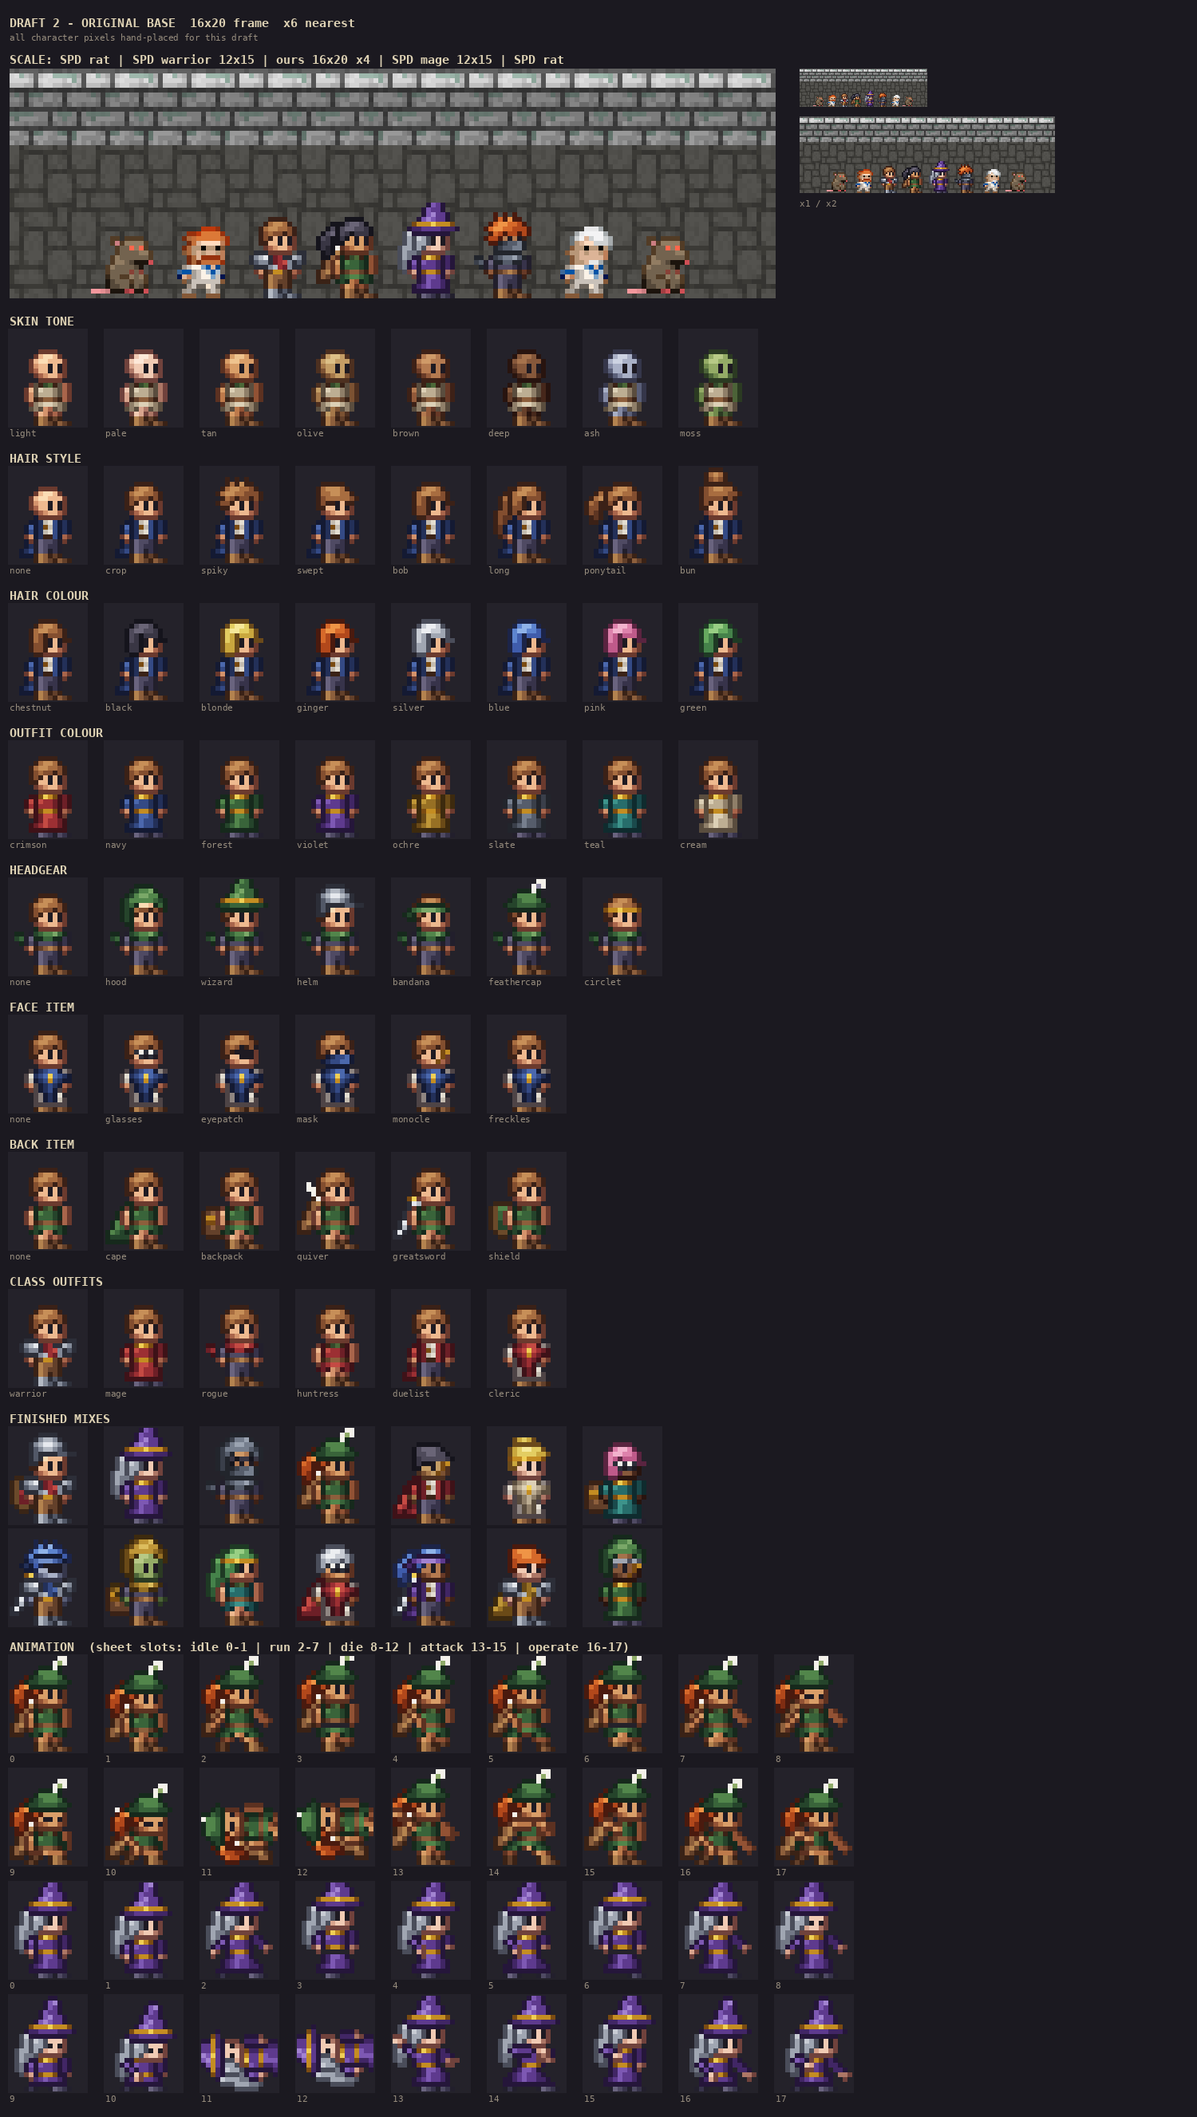
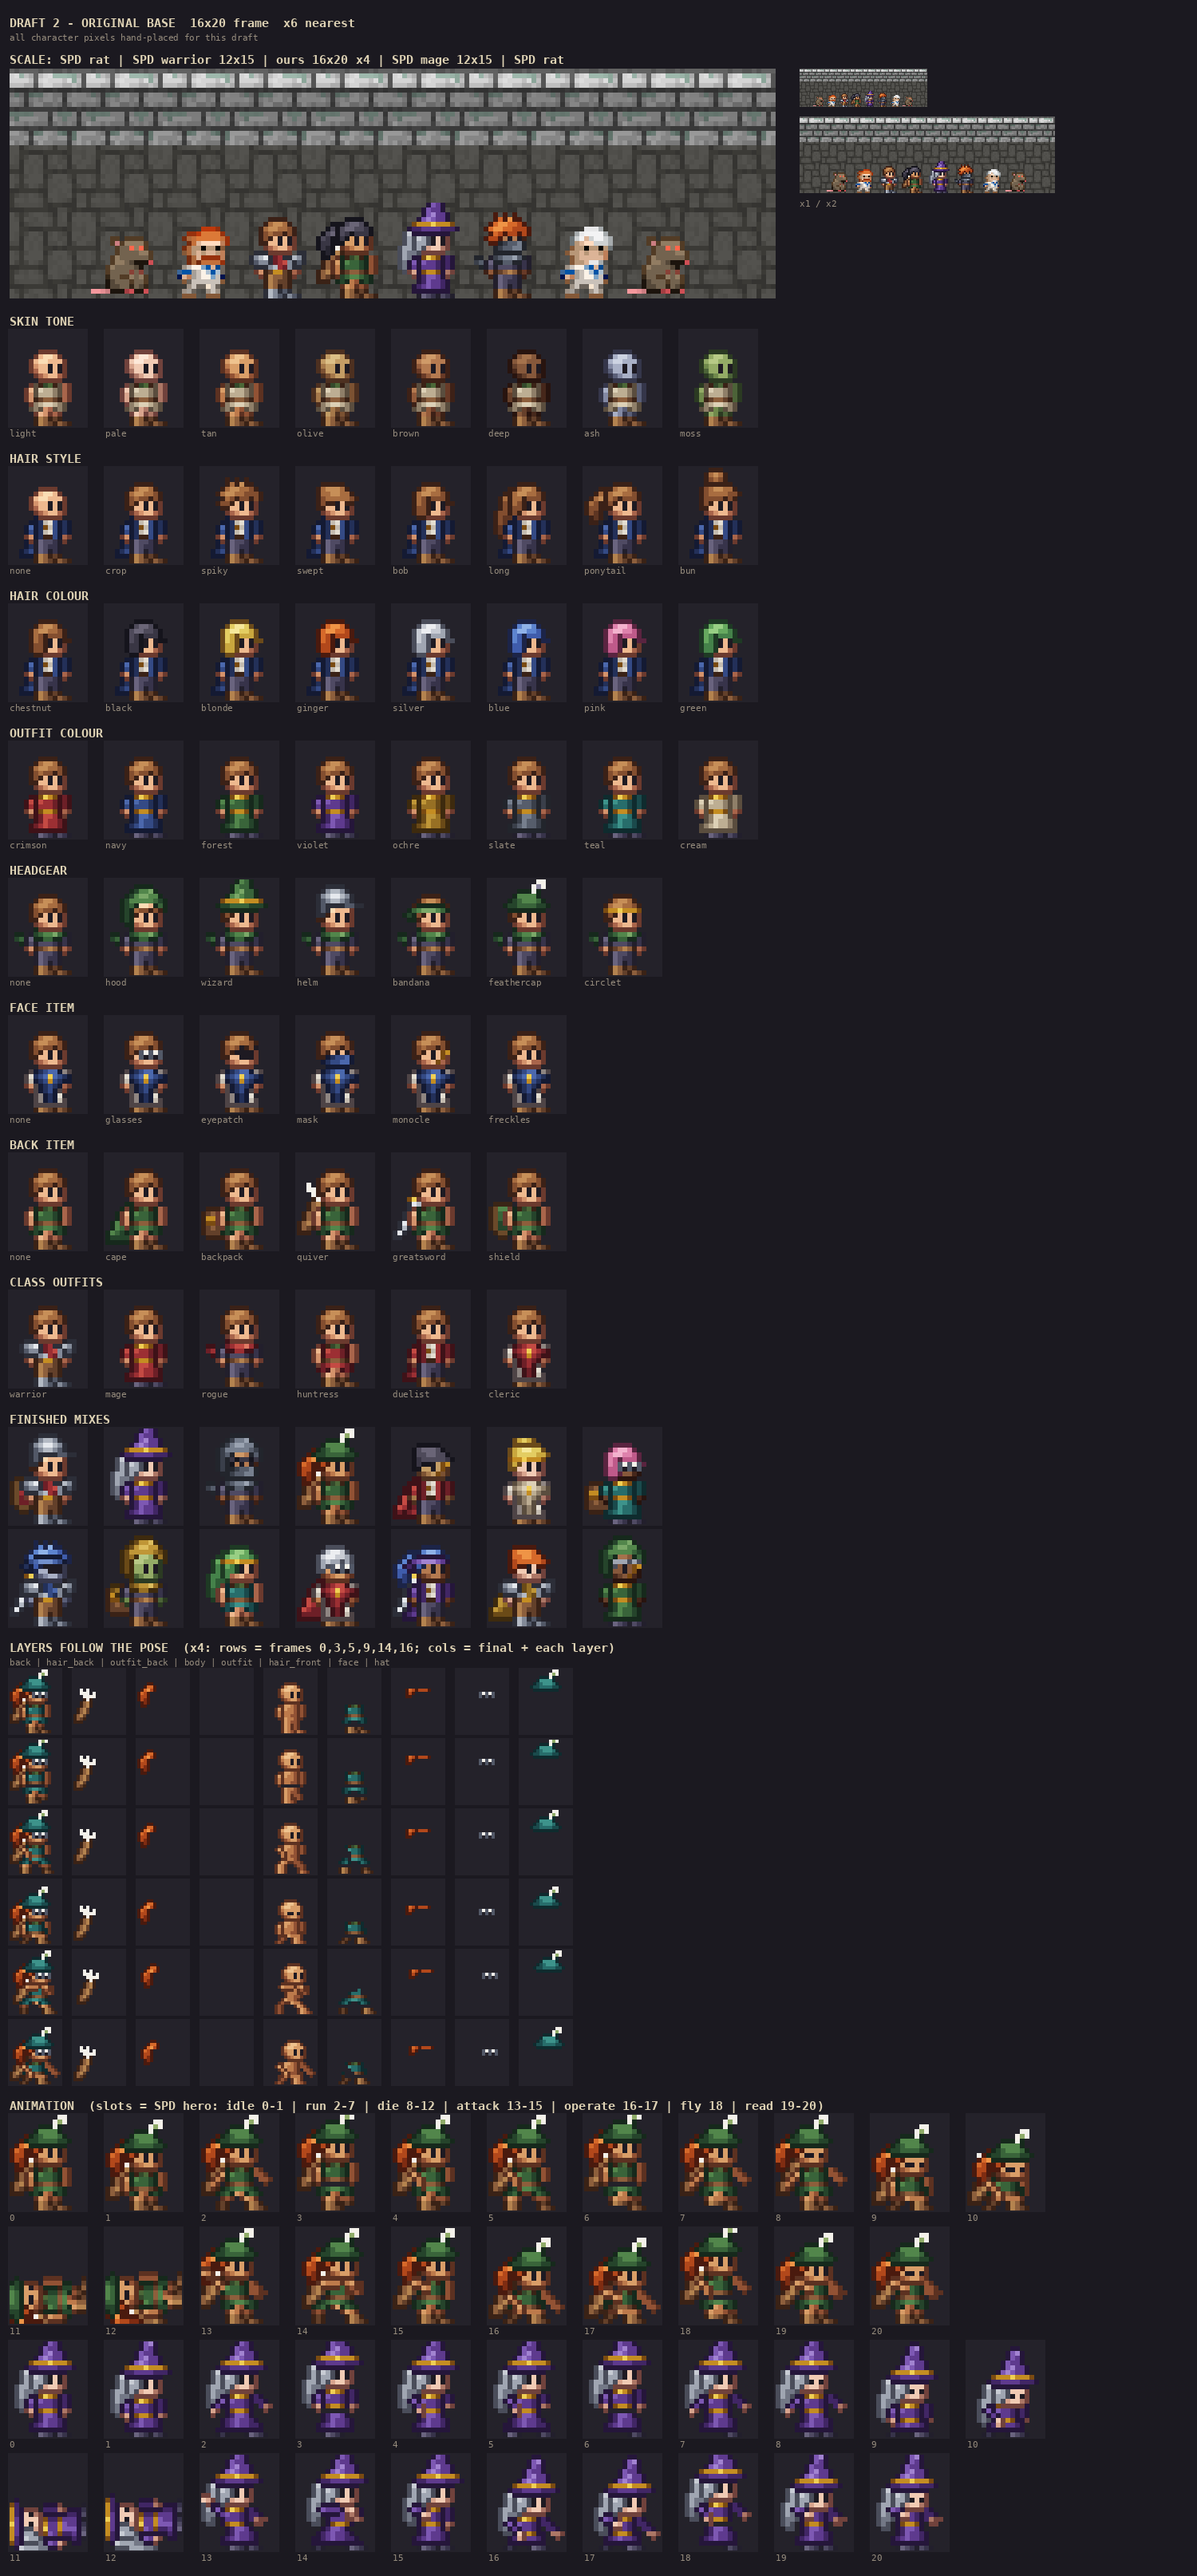
WIP: checkpoint in-progress agent work
Unreviewed snapshot of work that is still being written, saved so the
ephemeral session cannot lose it. The tree may not compile here.

Claude-Session: https://claude.ai/code/session_014rULHPkGjzQQ6LNezv9YSN

Changed region(s): [[0.0, 0.0, 0.8893, 1.0], [0.4907, 0.5561, 0.552, 0.6488]]

diff --git a/art-drafts/avatars/2-original-base/generate.py b/art-drafts/avatars/2-original-base/generate.py
@@ -104,8 +104,8 @@ BASE = {"head": (4, 4), "torso": (5, 11)}
 def pose(legs="stand", near="side", far="side", head=(0, 0), torso=(0, 0), eyes="open", bob=0):
     return dict(legs=legs, near=near, far=far, head=head, torso=torso, eyes=eyes, bob=bob)
 
-# 18 frames, same slots as SPD HeroSprite: idle 0-1, run 2-7, die 8-12,
-# attack 13-15, operate 16-17.  "rot" frames are the idle pose laid down.
+# 21 frames, same slots as SPD HeroSprite: idle 0-1, run 2-7, die 8-12,
+# attack 13-15, operate 16-17, fly 18, read 19-20.  "rot" frames are the idle pose laid down.
 FRAMES = [
     pose(),                                                   # 0 idle
     pose(head=(0, 1), torso=(0, 1)),                          # 1 idle breathe
@@ -125,9 +125,13 @@ FRAMES = [
     pose("stand", "half", "side", head=(1, 0)),                             # 15 recover
     pose("kneel", "reach", "reach", head=(1, 2), torso=(0, 2)),             # 16 operate
     pose("kneel", "half", "reach", head=(1, 2), torso=(0, 2)),              # 17 operate
+    pose("passB", "fwd", "fwd", bob=-1),                                    # 18 fly / jump
+    pose("stand", "half", "guard", head=(0, 1)),                            # 19 read
+    pose("stand", "half", "guard", head=(0, 1), eyes="closed"),             # 20 read (blink)
 ]
-ANIMS = {"idle": [0, 1], "run": [2, 3, 4, 5, 6, 7], "die": [8, 9, 10, 11, 12],
-         "attack": [13, 14, 15], "operate": [16, 17]}
+ANIMS = {"idle": [0, 0, 0, 1, 0, 0, 1, 1], "run": [2, 3, 4, 5, 6, 7],
+         "die": [8, 9, 10, 11, 12, 11], "attack": [13, 14, 15, 0], "operate": [16, 17, 16, 17],
+         "fly": [18], "read": [19, 20, 20, 20, 20, 20, 20, 20, 20, 19]}
 
 
 def anchors(f):
@@ -260,8 +264,10 @@ def rotated(look, settle=False, apply_clip=True):
     PIL's ROTATE_90 is an exact pixel permutation (no resampling), so every
     layer turns identically and stays aligned."""
     src = layers_for(pose(eyes="closed"), look, apply_clip)
-    flat = flatten(src).transpose(Image.Transpose.ROTATE_90)
-    bb = flat.getbbox() or (0, 0, FH, FW)
+    # The offset comes from the bare mannequin so it is identical for every
+    # look and every layer row of the sheet (layers stay aligned).
+    man = layers_for(pose(eyes="closed"), Look(job=None, hair="none"))["body"]
+    bb = man.transpose(Image.Transpose.ROTATE_90).getbbox()
     dx = (FW - (bb[2] - bb[0])) // 2 - bb[0]
     dy = (FH - (1 if settle else 0)) - bb[3]
     out = {}
@@ -383,15 +389,15 @@ class Canvas:
             self.parts.append(("t", self.y, sub, SMALL, SUB))
             self.y += 16
 
-    def row(self, items, cell_w=FW + 4, label_h=14, floor=True):
+    def row(self, items, cell_w=FW + 4, label_h=14, floor=True, s=S, x0=12):
         """items: list of (native image, label)."""
-        x = 12
-        h = max(im.height for im, _ in items) * S
+        x = x0
+        h = max(im.height for im, _ in items) * s
         for im, lab in items:
-            self.parts.append(("i", x, self.y, im, floor))
+            self.parts.append(("i", x, self.y, im, floor, s))
             if lab:
                 self.parts.append(("l", x, self.y + h + 2, lab))
-            x += cell_w * S
+            x += cell_w * s
         self.y += h + label_h + 8
 
     def render(self):
@@ -407,10 +413,11 @@ class Canvas:
             elif p[0] == "l":
                 d.text((p[1], p[2]), p[3], font=SMALL, fill=SUB)
             else:
-                _, x, y, im, floor = p
+                _, x, y, im, floor = p[:5]
+                s = p[5] if len(p) > 5 else S
                 if floor:
-                    d.rectangle((x - 2, y - 2, x + im.width * S + 1, y + im.height * S + 1), fill=PANEL)
-                img.paste(up(im), (x, y), up(im))
+                    d.rectangle((x - 2, y - 2, x + im.width * s + 1, y + im.height * s + 1), fill=PANEL)
+                img.paste(up(im, s), (x, y), up(im, s))
         return img
 
 
@@ -488,13 +495,20 @@ def build_preview():
     ]
     c.row([(frame(m), None) for m in mixes[:7]], label_h=0)
     c.row([(frame(m), None) for m in mixes[7:]], label_h=0)
-    c.title("ANIMATION  (sheet slots: idle 0-1 | run 2-7 | die 8-12 | attack 13-15 | operate 16-17)")
+    c.title("LAYERS FOLLOW THE POSE  (x4: rows = frames 0,3,5,9,14,16; cols = final + each layer)",
+            "back | hair_back | outfit_back | body | outfit | hair_front | face | hat")
+    lkL = Look("tan", "ponytail", "ginger", "huntress", "teal", "feathercap", "glasses", "quiver")
+    for fi in (0, 3, 5, 9, 14, 16):
+        ly = layers_for(fi, lkL)
+        # the body row of the sheet is the full mannequin (what the game draws)
+        ly["body"] = layers_for(fi, Look(skin=lkL.skin, job=None, hair="none"))["body"]
+        c.row([(flatten(ly), None)] + [(ly[k], None) for k in LAYER_ORDER], label_h=0, s=4)
+    c.title("ANIMATION  (slots = SPD hero: idle 0-1 | run 2-7 | die 8-12 | attack 13-15 | operate 16-17 | fly 18 | read 19-20)")
     lk = mixes[3]
-    c.row([(frame(lk, i), str(i)) for i in range(9)])
-    c.row([(frame(lk, i), str(i)) for i in range(9, 18)])
-    lk2 = mixes[1]
-    c.row([(frame(lk2, i), str(i)) for i in range(9)])
-    c.row([(frame(lk2, i), str(i)) for i in range(9, 18)])
+    n = len(FRAMES)
+    for l in (lk, mixes[1]):
+        c.row([(frame(l, i), str(i)) for i in range(11)])
+        c.row([(frame(l, i), str(i)) for i in range(11, n)])
     img = c.render()
     img.save(HERE / "preview.png")
     return img

diff --git a/art-drafts/avatars/2-original-base/parts.py b/art-drafts/avatars/2-original-base/parts.py
@@ -341,8 +341,8 @@ FACE = {
         "........",
         "........",
         "........",
-        "..5W5W5.",
-        "...5.5..",
+        "...6W6W6",
+        "...6.6.6",
     ),
     "eyepatch": (
         "........",

diff --git a/art-drafts/avatars/2-original-base/NOTES.md b/art-drafts/avatars/2-original-base/NOTES.md
@@ -1,0 +1,90 @@
+# 시안 2 — 커스터마이징용 오리지널 베이스
+
+## 접근
+SPD 영웅 스프라이트(12×15, 머리 약 5×4 px)를 재활용하지 않고, 처음부터
+커스터마이징을 전제로 새 캐릭터 베이스를 그렸다. 머리를 크게(8×7 px) 잡은
+2등신 반 비율이라 머리 모양·머리색·모자·안경 같은 차이가 1배율에서도 보인다.
+몸은 부위(머리·몸통·팔 2개·다리)를 프레임마다 다시 조합하는 페이퍼돌 방식이고,
+옷은 "구역(zone)" 문자로 칠해 두어 직업이 구역별 재질(피부/천/가죽/철)을 고른다.
+
+## 프레임 크기: 16×20
+- 가로 16 = 타일 폭. 등 장비(망토·방패·화살통)와 공격 시 팔이 프레임 안에 들어간다.
+- 세로 20 = 맨몸 16 px(발이 19행, 정수리 3~4행) + 위쪽 여유 4행.
+  여유 행은 마법사 모자·깃털·묶은 머리, 점프 프레임용이다. 16×16~18에서는
+  모자가 잘렸다(2차 반복에서 16×18 → 16×20으로 변경).
+- 실제 캐릭터 키는 15~17 px라 SPD 영웅(15 px)보다 1~2 px 크다. 픽셀 밀도는 동일(1:1).
+- 기준점: 하단 중앙(발 = 19행, 가운데 7.5열). SPD `CharSprite.worldToCamera()`가
+  이미 `width*0.5`, `height` 기준으로 놓기 때문에 크기만 바꾸면 위치는 자동으로 맞는다.
+
+## 레이어 순서 (뒤 → 앞)
+`back`(등 장비) → `hair_back`(뒷머리) → `outfit_back`(코트 자락·스카프 꼬리) →
+`body`(맨몸 마네킹) → `outfit`(직업 의상) → `hair_front`(앞머리) → `face`(얼굴 장신구) → `hat`(모자)
+
+- 머리 계열 레이어는 머리 기준점, 등 장비는 몸통 기준점을 따라 움직인다(구조적으로 정렬 보장).
+  쓰러진 프레임(11·12)은 모든 레이어를 같은 오프셋으로 90° 회전(픽셀 치환, 보간 없음).
+- 모자는 "이 행 위의 앞머리 숨김" 값(`hatHidesHairAboveRow`)을 가진다 — 런타임 규칙.
+- 색: 모든 램프는 4~5단(외곽선→하이라이트). `sheet.png`는 기본 색(피부 light,
+  머리 chestnut, 의상 crimson)으로 저장되고, 재색칠은 `sheet.json`의 표로 색→색 치환만 하면 된다.
+  시트 맨 아래 띠에 전체 팔레트가 있다. 모든 램프 색은 서로 겹치지 않는다.
+
+## 애니메이션 — SPD 영웅 슬롯과 1:1 (21프레임)
+idle 0-1 · run 2-7(6프레임, 접지/통과/상하 흔들림) · die 8-12(움찔·무릎·주저앉음·누움×2) ·
+attack 13-15(준비·찌르기·복귀) · operate 16-17 · fly 18 · read 19-20.
+`HeroSprite`의 프레임 순서 배열을 그대로 쓸 수 있다.
+
+## 선택지 수
+| 축 | 수 | 목록 |
+|---|---|---|
+| 피부색 | 8 | light, pale, tan, olive, brown, deep, ash(판타지), moss(판타지) |
+| 머리 모양 | 8 | 없음, crop, spiky, swept, bob, long, ponytail, bun |
+| 머리색 | 8 | chestnut, black, blonde, ginger, silver, blue, pink, green |
+| 의상 색 | 8 | crimson, navy, forest, violet, ochre, slate, teal, cream |
+| 모자 | 7 | 없음, hood, wizard, helm, bandana, feathercap, circlet |
+| 얼굴 장신구 | 6 | 없음, glasses, eyepatch, mask, monocle, freckles |
+| 등 장비 | 6 | 없음, cape, backpack, quiver, greatsword, shield |
+| 직업 의상 | 6 | warrior(판금 어깨), mage(바닥까지 로브), rogue(스카프 꼬리), huntress(민소매 튜닉), duelist(코트 자락), cleric(케이프렛+흰 로브) |
+
+조합: 8×8×8×8×7×6×6 = **1,032,192** / 직업, 6직업 합계 **6,193,152**.
+(모든 조합 × 21프레임에서 고립 픽셀 0개를 스크립트로 확인.)
+
+## 게임에 넣으려면 바꿀 곳
+- `HeroSprite.FRAME_WIDTH/HEIGHT`(12×15) → 16×20, `tiers()` 텍스처 구성. 방어구 단계(tier) 행 대신 레이어 합성 텍스처를 쓰도록.
+- 12×15를 하드코딩한 곳: `StartScene`(224·237행), `HeroSelectScene`(582행), `ShadowClone`·`PowerOfMany`의 `TextureFilm(..., 12, 15)`,
+  `inn-client`의 `AvatarSprites.FRAME_WIDTH/HEIGHT`와 이를 쓰는 `DungeonActorView`, `AvatarProfileWindow`(미리보기 폭 계산), `NativeDungeonScene`, `NativeInnBoard`.
+- `StatusPane`/`WndHero`/`WndRanking`/`WndGameInProgress` 등 영웅 초상 잘라내기(머리 위치가 다름 — 머리 기준점은 (4,4)).
+- `web-client/scripts/generate-avatars.py`: SPD 시트를 잘라 재색칠하는 대신 이 폴더의 `parts.py` 조합기로 교체. `catalog.json` 스키마에 축 7개 + 직업, 램프 표 추가.
+- 서버/프로토콜의 외형 필드(현재 직업·머리·의상·장신구 4축)에 피부·머리색·모자·얼굴·등 축 추가.
+- 회전 기반 사망 프레임 때문에 누운 프레임은 폭이 꽉 찬다(긴 모자 끝은 잘림).
+
+## 픽셀 출처
+캐릭터를 이루는 모든 픽셀은 이 시안을 위해 `parts.py`에 문자 격자로 직접 찍은 것이다.
+SPD나 제3자 에셋에서 복사·트레이스한 픽셀은 없다. SPD 스프라이트·타일은
+`preview.png`의 크기 비교 띠에 배경/비교 대상으로만 읽어 쓴다(시트에는 들어가지 않음).
+
+## 장단점
+**장점**
+- 머리 8×7 px, 눈 2 px 높이 → 머리 모양·색·모자·안경이 1배율에서 구분된다(SPD 머리로는 거의 안 보임).
+- 레이어가 완전히 분리되어 있고 재색칠은 표 치환뿐 — 축을 늘려도 비용이 선형.
+- 몸 부위 조합이라 새 포즈 하나 = 다리/팔 격자 몇 개. 의상은 구역 매핑 + 작은 오버레이라 직업 추가가 싸다.
+- 외곽선을 같은 색 계열의 가장 어두운 단으로 처리해 SPD 타일·몬스터 옆에서 이질감이 적다.
+
+**단점**
+- SPD 원본 영웅과 나란히 서면 머리가 크고 1~2 px 더 커서 "다른 손이 그린" 느낌이 약간 난다.
+  모든 영웅을 이 베이스로 바꿔야 일관된다(원작 영웅 아트 포기).
+- SPD의 방어구 단계(천→판금 5단계) 시각 표현이 사라진다. 살리려면 직업×5단계 = 의상 오버레이 30종.
+- 다리가 5행·팔이 1~2 px라 걷기는 읽히지만, 공격(찌르기) 프레임은 팔이 몸통과 같은 색일 때 덩어리로 보인다. 무기 표시가 없다.
+- 회전 사망 프레임은 손맛이 부족하다(손으로 다시 그리는 게 바람직).
+- 주근깨는 1배율에서 거의 안 보인다(이 해상도의 한계).
+
+**남은 작업량(완전 커버 기준, 대략)**
+- 의상: 방어구 단계까지 하면 오버레이 약 30종(지금 6종), 팔 소매 디테일(현재 단색).
+- 포즈: 사망·조작 손그림 5~6프레임, 무기 들기 표현 시 팔 격자 ×무기군.
+- 레이어 추가 시 프레임별 보정: 모자 7종 × 회전 프레임 수작업 손질, 긴 머리의 걷기 흔들림(현재 고정).
+- 클래스 고유 연출(투명화·변신 등 SPD 특수 스프라이트)과 UI 초상 크롭 재작업.
+- 대략 지금 그린 양(격자 약 60개)의 2~3배.
+
+## 파일
+- `parts.py` — 모든 픽셀 격자(손으로 입력).
+- `generate.py` — 합성기. `python3 generate.py` 로 `sheet.png`·`sheet.json`·`preview.png` 재생성.
+- `sheet.png` — 336×712, 16×20 프레임 21열. 행 이름은 `sheet.json`의 `rows`. 투명 배경.
+- `preview.png` — ×6 확대 검토용 시트.
